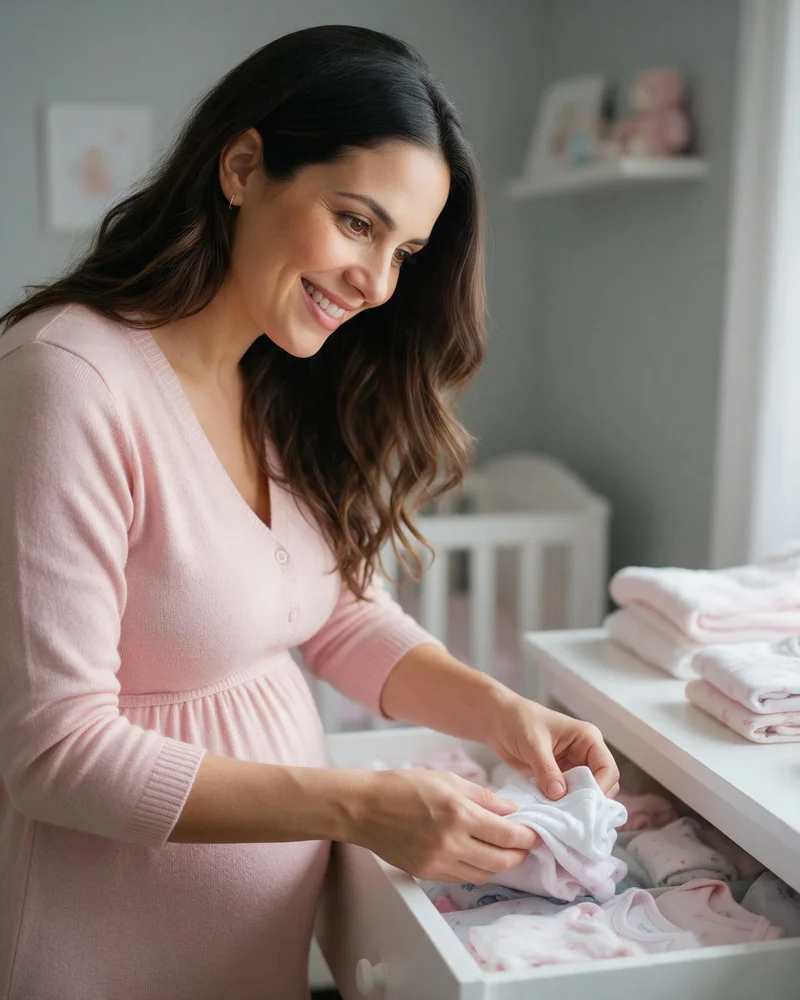
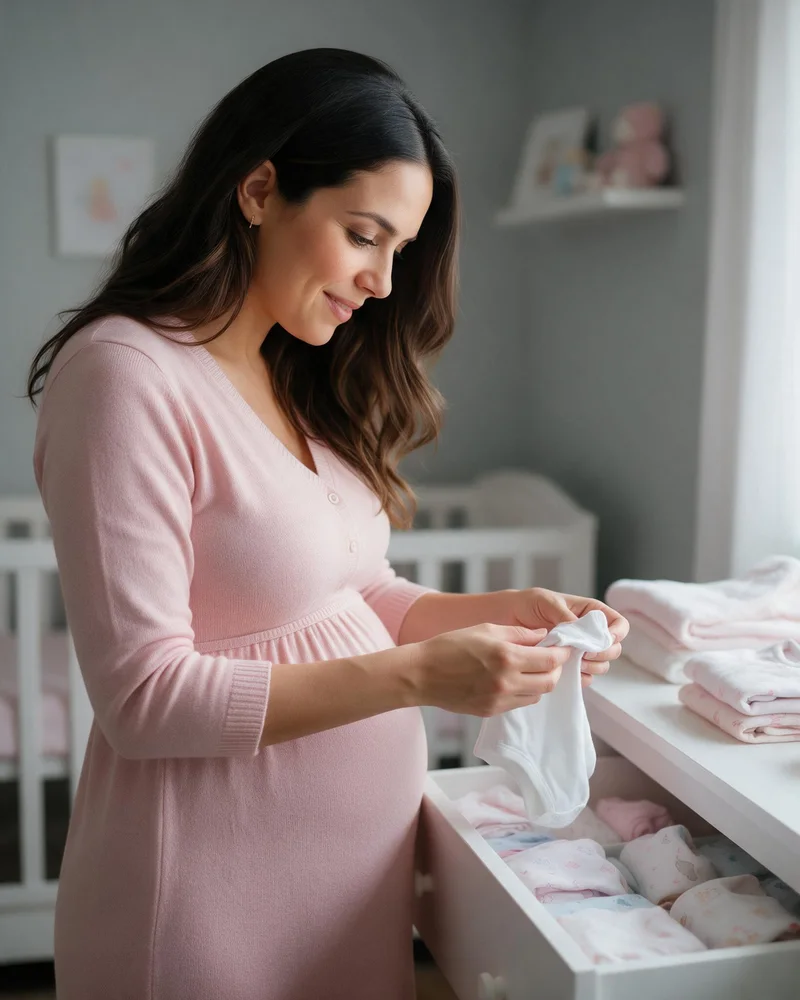
black 2026: vendas v2, Day maior, foto 1 refeita, caixas e parcela

diff --git a/2026-10-26-black-2026/black-maternity/pagina-de-vendas-v2/index.html b/2026-10-26-black-2026/black-maternity/pagina-de-vendas-v2/index.html
@@ -243,6 +243,10 @@ footer{padding:26px 18px calc(26px + env(safe-area-inset-bottom));text-align:cen
 .hero .cta-c{margin-top:14px;text-align:left}
 @media(max-width:860px){.hero .cta-c{text-align:center}.hero h1{font-size:1.32rem}.hero .desc{font-size:.96rem}}
 #jornada{scroll-margin-top:10px}
+/* Day maior no topo */
+.hero .lockup{width:min(480px,100%)}
+.hero .portrait{width:90%}
+@media(max-width:860px){.hero .lockup{width:min(280px,78vw)}.hero .portrait{width:86%}}
 .jornada{background:linear-gradient(180deg,var(--bg) 0%,#1F0A2C 100%)}
 .passos{display:grid;gap:34px;max-width:960px;margin:0 auto;position:relative}
 /* linha neon suave ligando as fases */
@@ -275,16 +279,21 @@ footer{padding:26px 18px calc(26px + env(safe-area-inset-bottom));text-align:cen
 .atencao p{color:var(--txt)}
 @media (prefers-reduced-motion:reduce){.atencao,.passos::before{animation:none}}
 .oferta .caixa{max-width:560px;padding:28px 22px;gap:14px;box-shadow:0 0 0 2px rgba(255,79,166,.55),0 30px 70px -30px rgba(226,31,130,.7)}
-.recebe{list-style:none;padding:0;display:grid;gap:9px}
-.recebe li{display:flex;gap:10px;align-items:center;font-weight:700}
+.recebe{list-style:none;padding:0;display:grid;grid-template-columns:repeat(2,minmax(0,1fr));grid-auto-rows:1fr;gap:10px}
+.recebe li{display:flex;gap:9px;align-items:center;font-weight:700;font-size:.92rem;line-height:1.25;padding:12px;border-radius:14px;background:rgba(255,255,255,.05);border:1px solid rgba(255,79,166,.32)}
 .recebe svg{flex:none;width:20px;height:20px;color:#4BE287}
+@media(max-width:420px){.recebe li{font-size:.8rem;padding:10px 8px;gap:6px}.recebe svg{width:16px;height:16px}}
 .oferta .de{font-size:clamp(1.1rem,4vw,1.4rem)}
-.oferta .parc{font-family:var(--fd);font-weight:900;font-size:clamp(2.3rem,10vw,3.4rem);line-height:1;color:#fff}
-.oferta .parc small{font-size:.42em;font-weight:800;color:var(--mut)}
+.oferta .parc{font-family:var(--fd);font-weight:900;font-size:clamp(3.1rem,14vw,4.6rem);line-height:1;color:#fff}
+.oferta .parc{display:grid;justify-items:center;gap:4px}
+.oferta .parc small{font-size:.3em;font-weight:800;color:var(--mut)}
+.oferta .parc b{white-space:nowrap;font-weight:900}
 .oferta .vista{font-size:1.05rem}
 .garantias{display:flex;flex-wrap:wrap;justify-content:center;gap:8px 16px;font-size:.8rem;color:var(--mut);margin-top:4px}
 .garantias span{display:inline-flex;align-items:center;gap:5px}
 .garantias svg{width:15px;height:15px;color:#4BE287}
+@media(max-width:760px){.garantias{flex-direction:column;align-items:center;gap:6px}}
+.atencao .off span{white-space:nowrap}
 .faq{max-width:760px;margin:0 auto;display:grid;gap:10px}
 .faq details{background:var(--card);border:1px solid var(--line);border-radius:16px;padding:16px 18px}
 .faq summary{cursor:pointer;font-family:var(--fd);font-weight:800;font-size:.98rem;list-style:none;display:flex;justify-content:space-between;gap:12px}
@@ -328,7 +337,7 @@ footer{padding:26px 18px calc(26px + env(safe-area-inset-bottom));text-align:cen
     </div>
     <div class="passos">
       <article class="passo">
-        <div class="p-img"><img src="../../assets/bm-jornada-1.webp" alt="Mãe grávida arrumando as roupinhas do enxoval" style="object-position:50% 35%" loading="lazy" width="800" height="1000"><span class="p-num">1</span></div>
+        <div class="p-img"><img src="../../assets/bm-jornada-1.webp" alt="Mãe grávida olhando uma roupinha do enxoval" style="object-position:50% 35%" loading="lazy" width="800" height="1000"><span class="p-num">1</span></div>
         <div class="p-txt">
           <span class="eyebrow">Na gestação</span>
           <h3>Preparada para a chegada do bebê</h3>
@@ -436,22 +445,22 @@ footer{padding:26px 18px calc(26px + env(safe-area-inset-bottom));text-align:cen
   <div class="wrap">
     <div class="atencao">
       <b class="t">Atenção</b>
-      <span class="off">Mais de 70% de desconto</span>
+      <span class="off"><span>Mais de 70%</span> <span>de desconto</span></span>
       <p>Essa é a oferta mais completa que a Day já fez. Quando a Black Maternity acabar, o valor volta ao normal e o acompanhamento de 1 ano deixa de fazer parte do pacote.</p>
     </div>
     <div class="titulo" style="margin-top:44px"><span class="eyebrow">Tudo o que você vai receber</span><h2>Black Maternity</h2></div>
     <div class="caixa">
       <ul class="recebe">
-        <li><svg viewBox="0 0 24 24" fill="none" stroke="currentColor" stroke-width="3" stroke-linecap="round" stroke-linejoin="round" aria-hidden="true"><path d="M5 12.5l4.5 4.5L19 7.5"/></svg>12 cursos completos, com acesso imediato</li>
+        <li><svg viewBox="0 0 24 24" fill="none" stroke="currentColor" stroke-width="3" stroke-linecap="round" stroke-linejoin="round" aria-hidden="true"><path d="M5 12.5l4.5 4.5L19 7.5"/></svg>12 cursos completos</li>
         <li><svg viewBox="0 0 24 24" fill="none" stroke="currentColor" stroke-width="3" stroke-linecap="round" stroke-linejoin="round" aria-hidden="true"><path d="M5 12.5l4.5 4.5L19 7.5"/></svg>8 ebooks exclusivos</li>
-        <li><svg viewBox="0 0 24 24" fill="none" stroke="currentColor" stroke-width="3" stroke-linecap="round" stroke-linejoin="round" aria-hidden="true"><path d="M5 12.5l4.5 4.5L19 7.5"/></svg>1 ano de acompanhamento no WhatsApp</li>
-        <li><svg viewBox="0 0 24 24" fill="none" stroke="currentColor" stroke-width="3" stroke-linecap="round" stroke-linejoin="round" aria-hidden="true"><path d="M5 12.5l4.5 4.5L19 7.5"/></svg>Grupo do enxoval com cupons</li>
-        <li><svg viewBox="0 0 24 24" fill="none" stroke="currentColor" stroke-width="3" stroke-linecap="round" stroke-linejoin="round" aria-hidden="true"><path d="M5 12.5l4.5 4.5L19 7.5"/></svg>2 anos de acesso a tudo</li>
+        <li><svg viewBox="0 0 24 24" fill="none" stroke="currentColor" stroke-width="3" stroke-linecap="round" stroke-linejoin="round" aria-hidden="true"><path d="M5 12.5l4.5 4.5L19 7.5"/></svg>1 ano de acompanhamento</li>
+        <li><svg viewBox="0 0 24 24" fill="none" stroke="currentColor" stroke-width="3" stroke-linecap="round" stroke-linejoin="round" aria-hidden="true"><path d="M5 12.5l4.5 4.5L19 7.5"/></svg>Grupo de cupons do enxoval</li>
+        <li><svg viewBox="0 0 24 24" fill="none" stroke="currentColor" stroke-width="3" stroke-linecap="round" stroke-linejoin="round" aria-hidden="true"><path d="M5 12.5l4.5 4.5L19 7.5"/></svg>2 anos de acesso</li>
         <li><svg viewBox="0 0 24 24" fill="none" stroke="currentColor" stroke-width="3" stroke-linecap="round" stroke-linejoin="round" aria-hidden="true"><path d="M5 12.5l4.5 4.5L19 7.5"/></svg>7 dias de garantia</li>
       </ul>
       <div class="total">
         <span class="de">de R$ 2.770 por</span>
-        <span class="parc"><small>12x de</small> R$ 51,10</span>
+        <span class="parc"><small>12x de</small><b>R$ 51,10</b></span>
         <span class="vista">ou R$ 497 à vista</span>
       </div>
       <div class="cta-c"><a class="cta" href="https://payfast.greenn.com.br/143822/offer/4uxUNo?utm_source=bio&utm_medium=pagina-vendas&utm_campaign=black-maternity-2026"><span>Eu quero agora</span><svg class="seta" viewBox="0 0 24 24" fill="none" stroke="currentColor" stroke-width="3.2" stroke-linecap="round" stroke-linejoin="round" aria-hidden="true"><path d="m9 5 7 7-7 7"/></svg></a></div>
